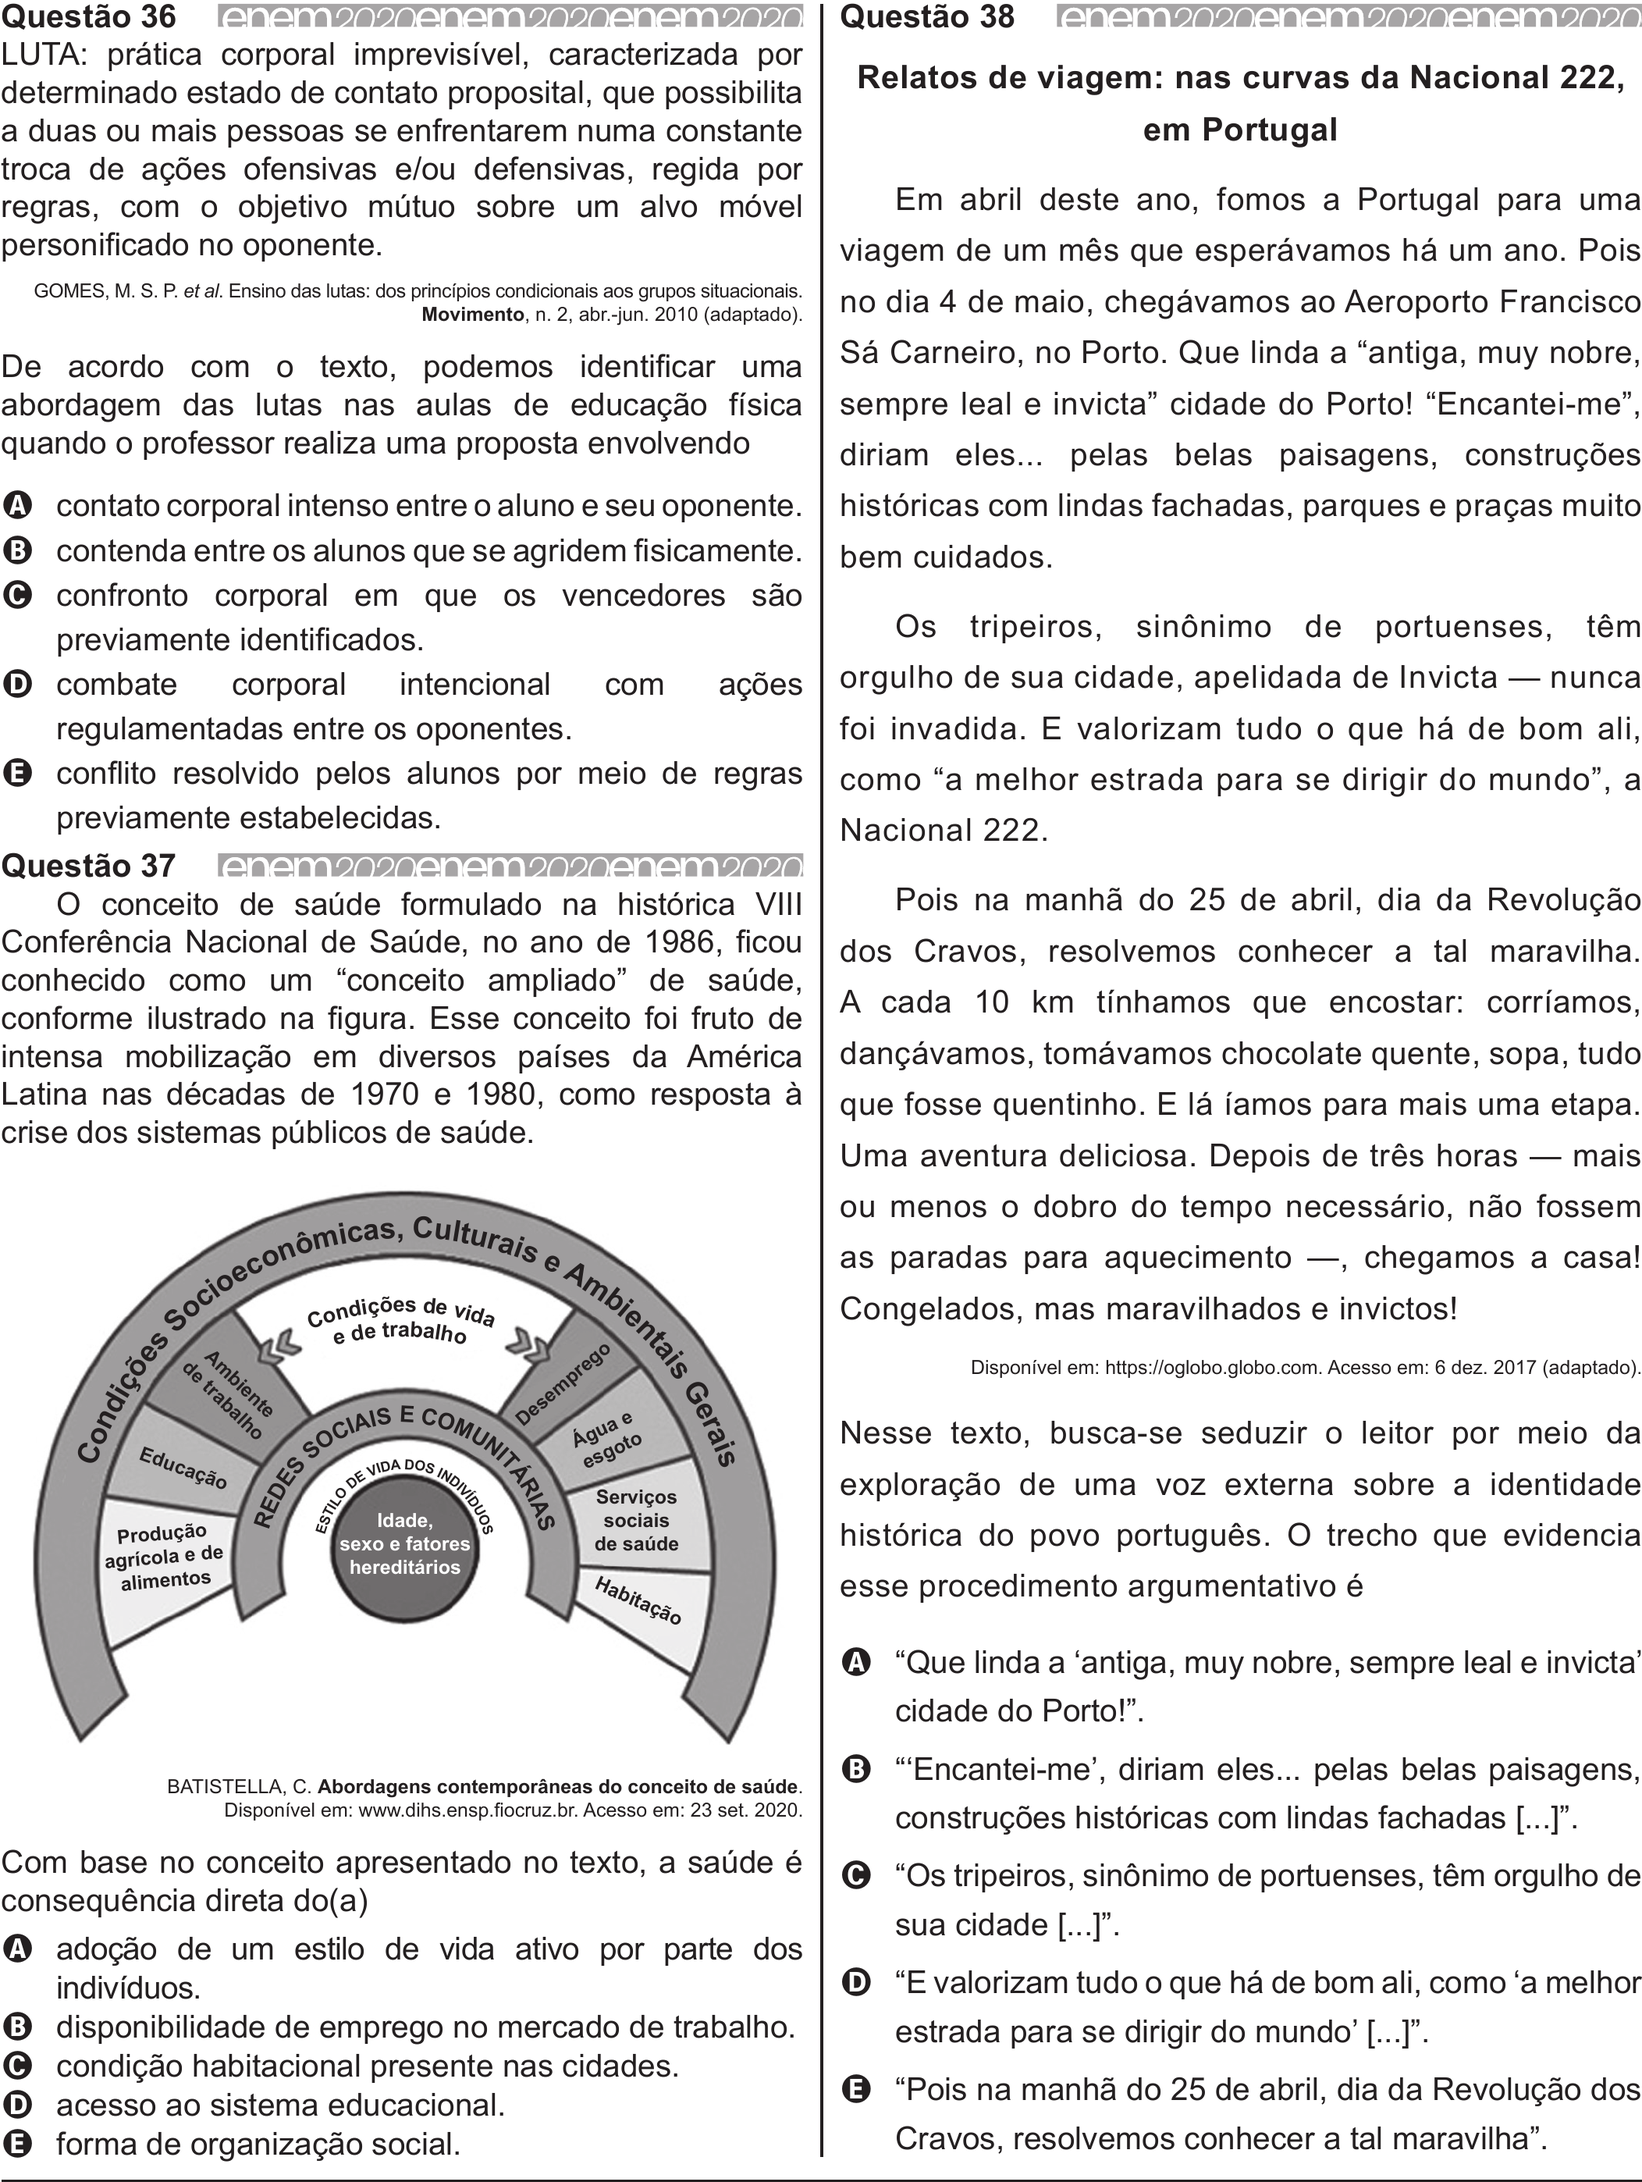
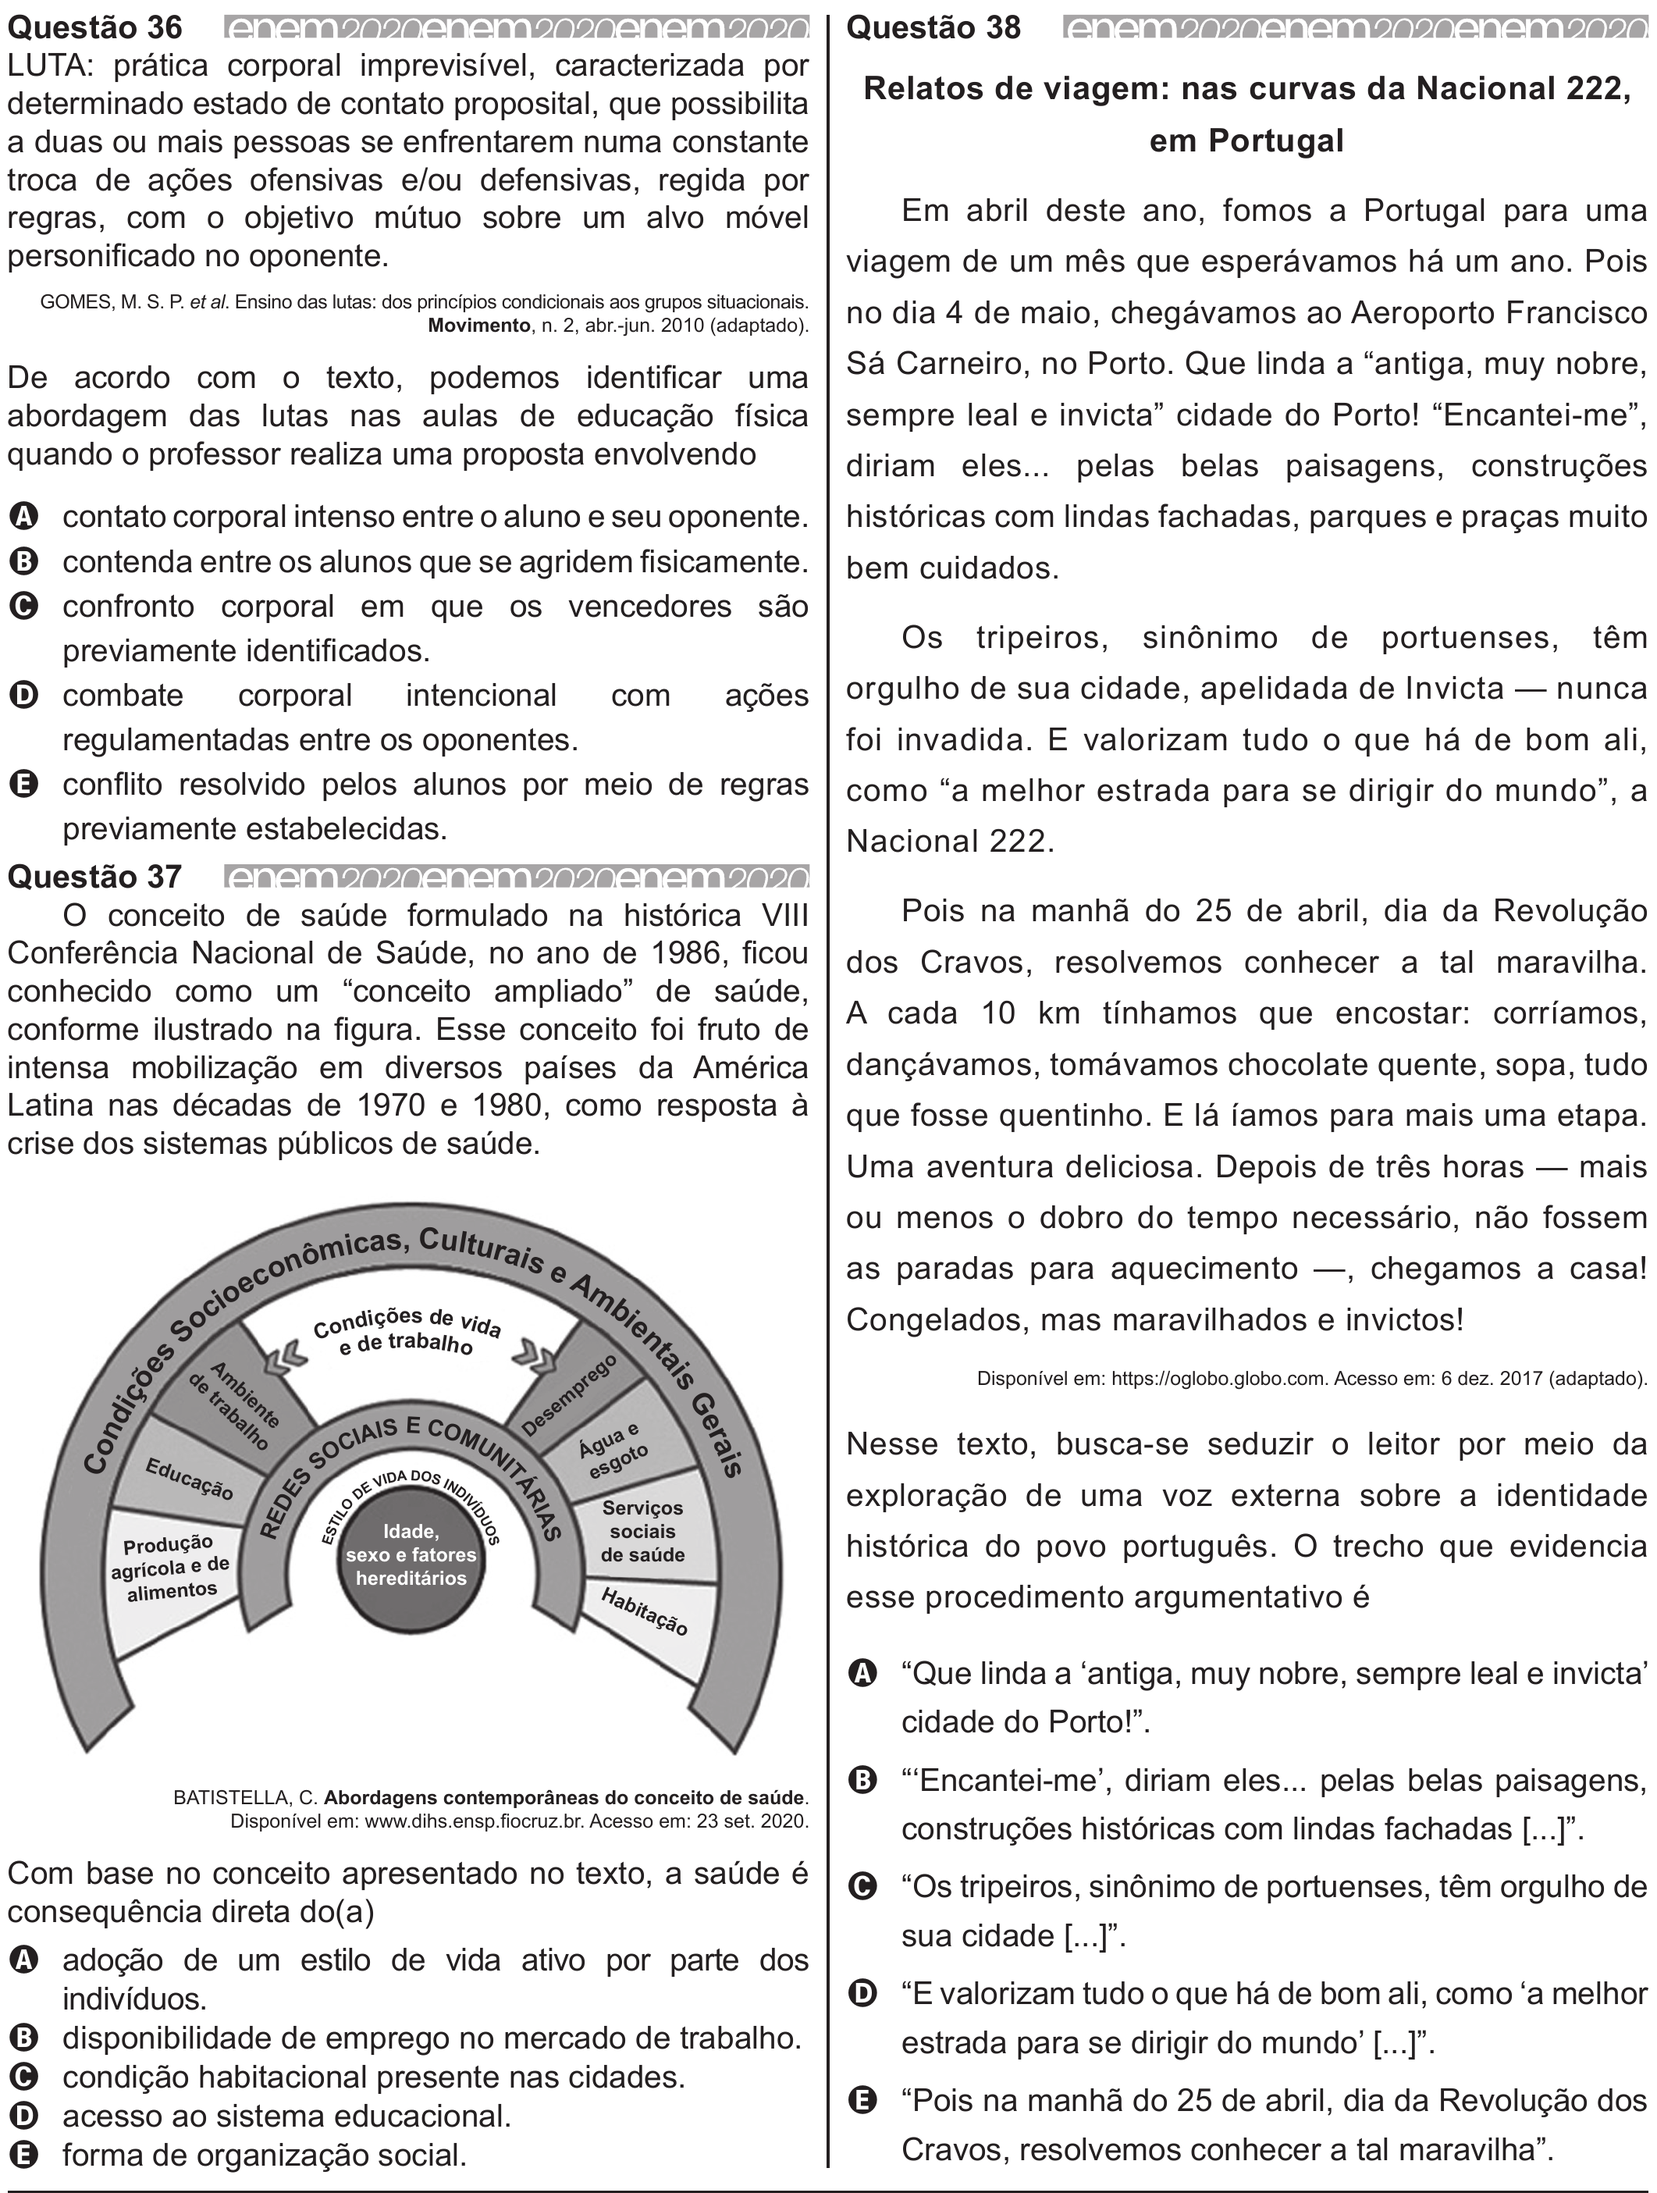
Imagens recortadas corretamente

diff --git a/Passo 2/removerbordas.py b/Passo 2/removerbordas.py
@@ -13,7 +13,7 @@ OBS4: execute o código, e abra as imagens para conferir se as bordas foram remo
 from PIL import Image
 import os
 
-pasta_imagens = "./pagina2"
+pasta_imagens = "imagens-convertidas"
 pasta_saida = "sem-bordas-externas"
 
 os.makedirs(pasta_saida, exist_ok=True)
@@ -25,7 +25,7 @@ for nome_arquivo in os.listdir(pasta_imagens):
 
         largura, altura = imagem.size
 
-        caixa_corte = (128, 314, largura - 131, altura - 749) # 120, 300, -120, -140 ATUALIZE AQUI OS VALORES DE CORTE (esquerda, superior, direita, inferior)
+        caixa_corte = (120, 300, largura - 120, altura - 140) #ATUALIZE AQUI OS VALORES DE CORTE (esquerda, superior, direita, inferior)
         imagem_cortada = imagem.crop(caixa_corte)
 
         caminho_saida = os.path.join(pasta_saida, nome_arquivo)
